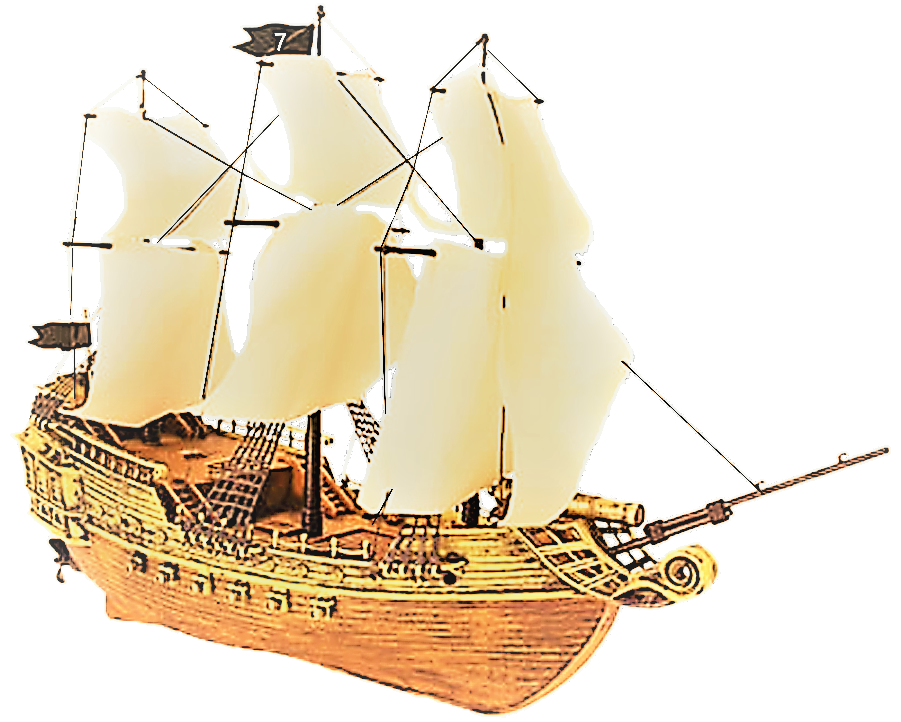
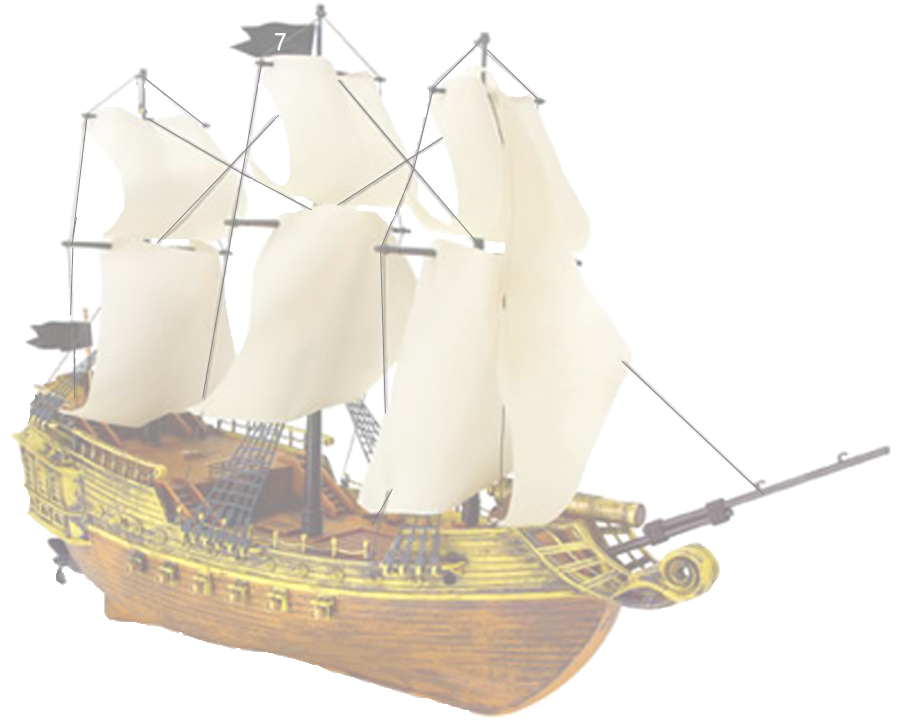
clean up code for ship class on scorepage, lightened about pic

diff --git a/src/components/GamePage/components/ScoreBoard.js b/src/components/GamePage/components/ScoreBoard.js
@@ -75,18 +75,20 @@ function ScoreBoard() {
         <div className="shipbox">
           <div>
             <img className="size2" src="/assets/7battle.png" alt="ship 2" />
-            <div className="ship-2">2</div>
+            <div className="ship">2</div>
           </div>
           <div>
             <img className="size3" src="/assets/7battle.png" alt="ship 3" />
-            <div className="ship-3">3</div>
+            <div className="ship">3</div>
           </div>
           <div>
             <img className="size4" src="/assets/7battle.png" alt="ship 4" />
-            <div className="ship-4">4</div>
+            <div className="ship">4</div>
           </div>
           <div>
-            <img className="size5" src="/assets/7battleG.png" alt="ship 5" style={{opacity: ".25"}}/>
+            <img className="size5" src="/assets/7battleG.png" alt="ship 5"/>
+
+
             <div className="ship-4">5</div>
           </div>
         </div>

diff --git a/src/App.css b/src/App.css
@@ -138,8 +138,7 @@ border-radius: 50px;
 
 }
 
-.ship-2, .ship-3, .ship-4, .ship-5 {
-background-image: src="/assets/7battle.png alt=ship";
+.ship{
 display: flex;
 align-items: center;
 justify-content: center;
